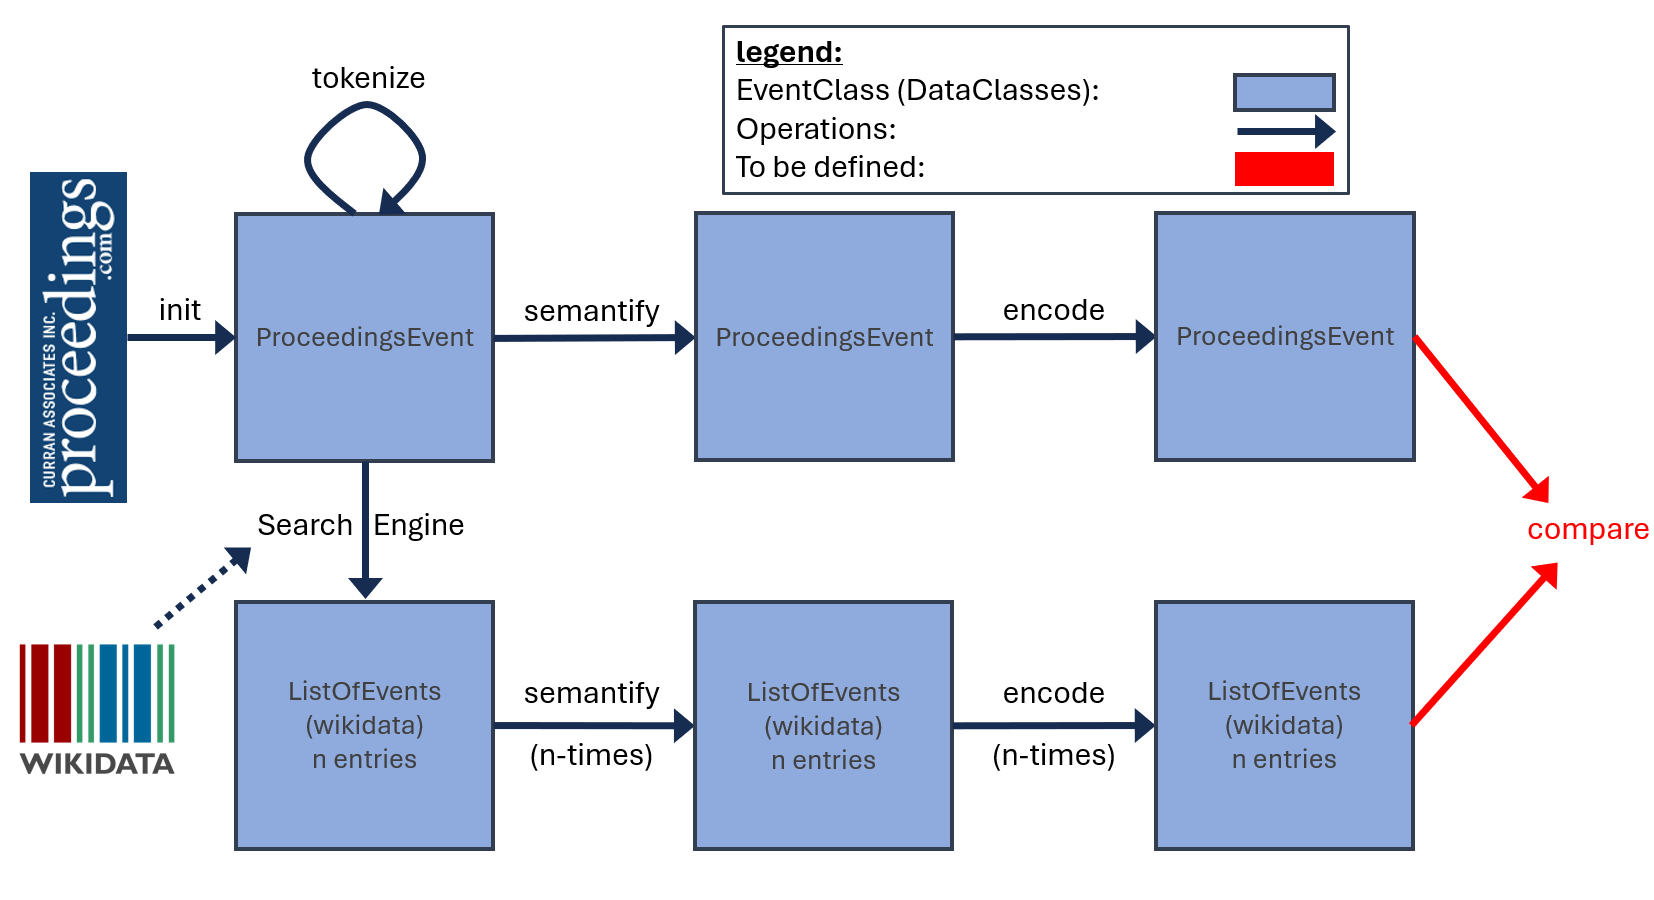
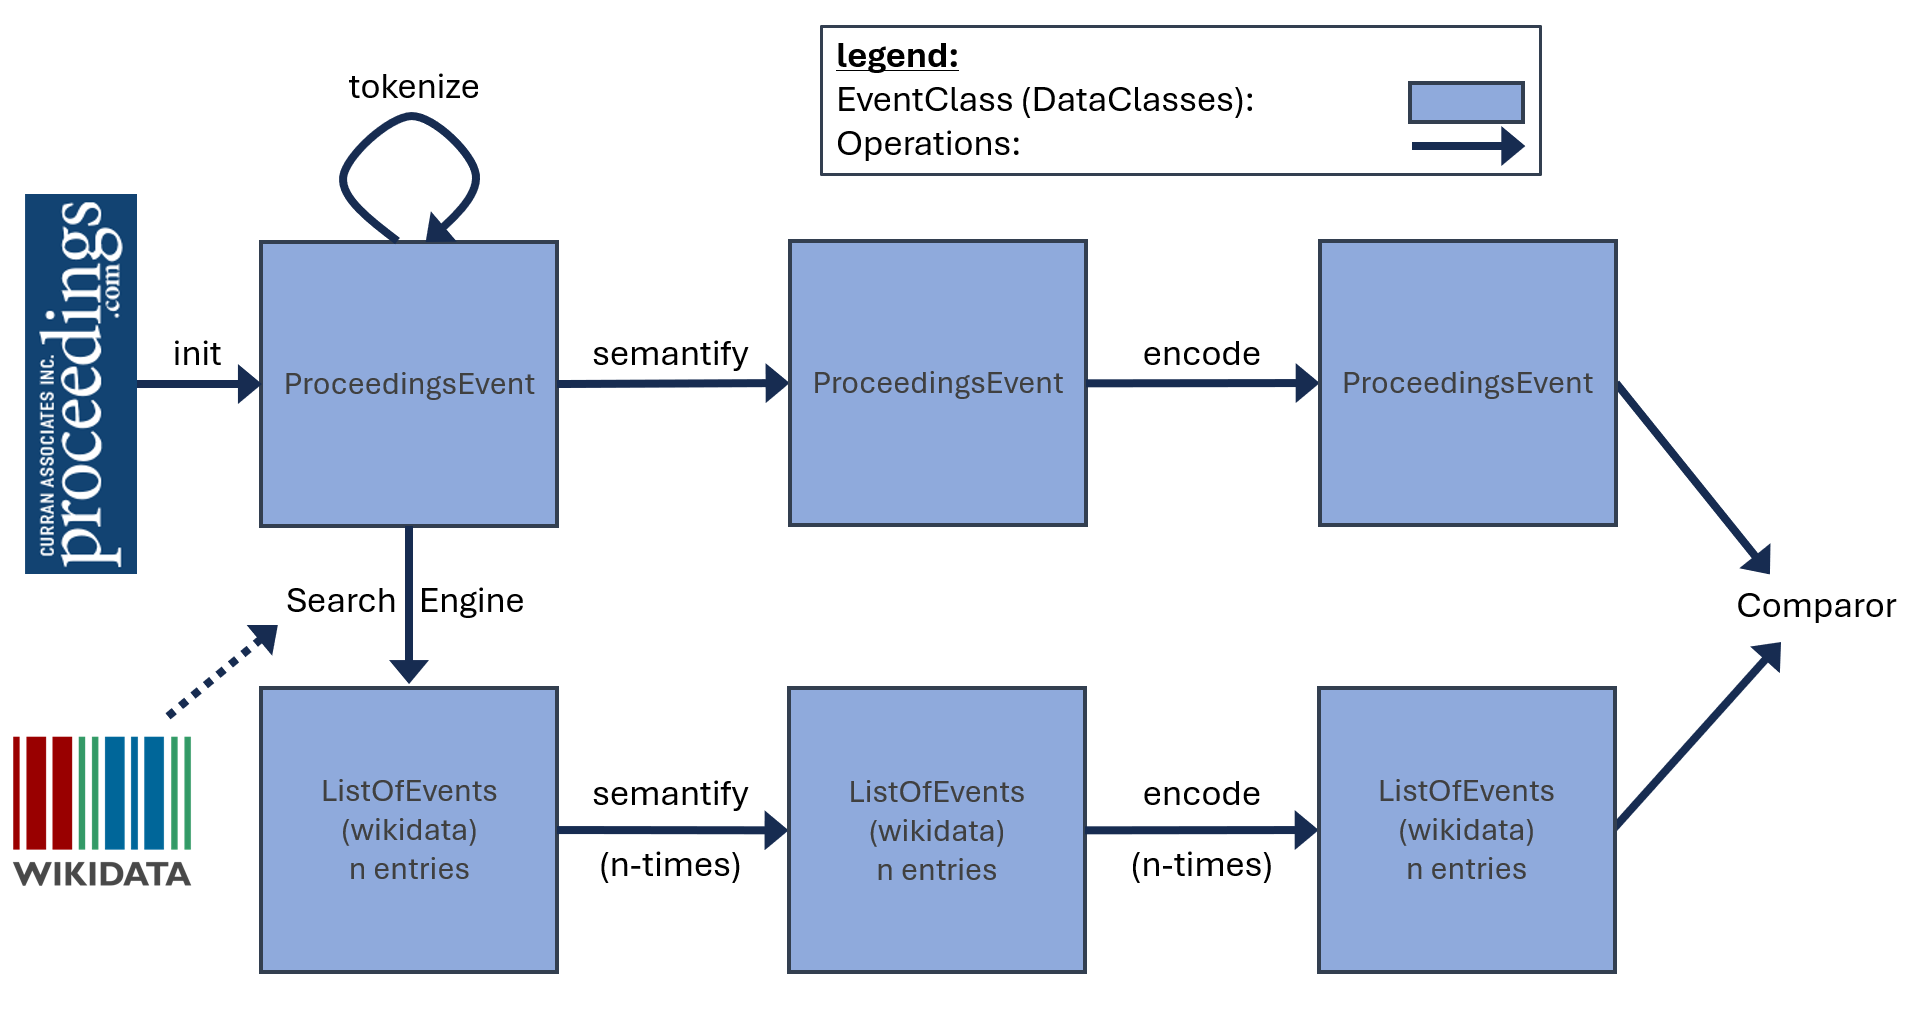
Last changes to the README.

Changed region(s): [[0.0, 0.0, 1.0, 0.9644], [0.8942, 0.6533, 0.925, 0.7156]]

diff --git a/README.md b/README.md
@@ -34,16 +34,16 @@ Our conference receives a Wikidata entry which contains all its relevant propert
     <li> Preprocessing of queries &#x2713; </li>
     <il> (Method for encoding established) &#x2713; </il>
     <li> Validation of LLM (check for accuracy and precision) &#x2713; </li>
-    <li> (Further methods of assignments established) ❌ </li>
-    <li> Method for data transfer to Wikidata &#x1F6E1; </li>
-    <li> Establishment of an automated method &#x1F6E1; </li>
-    <li> Validation of the method &#x1F6E1; </li>
+    <li> (Further methods of assignments established) &#x2713; </li>
+    <li> Method for data transfer to Wikidata &#x2713; </li>
+    <li> Establishment of an semi-automated method &#x2713; </li>
+    <li> Validation of the method &#x2713; </li>
 </ul>
 
 ## Deadlines
 
 - 2024-01-19: Midterm coordination &#x2713;
-- 2024-03-22: Project result delivery
+- 2024-03-22: Project result delivery &#x2713;
 - 2024-03-29: Final presentation
 
 ## Usage
@@ -70,7 +70,7 @@ Thank you for your interest in contributing to this project! We welcome all kind
 In this regard, please follow our [Code of Conduct](.github/CONTRIBUTION.md)
 
 ## Considered pipeline
-<img src="images/Pipeline_v2.png">
+<img src="images/Pipeline_v3.png">
 
-## Code workflow (v2)
+## Code workflow (DataClass handling)
 <img src="images/code_workflow.png">
